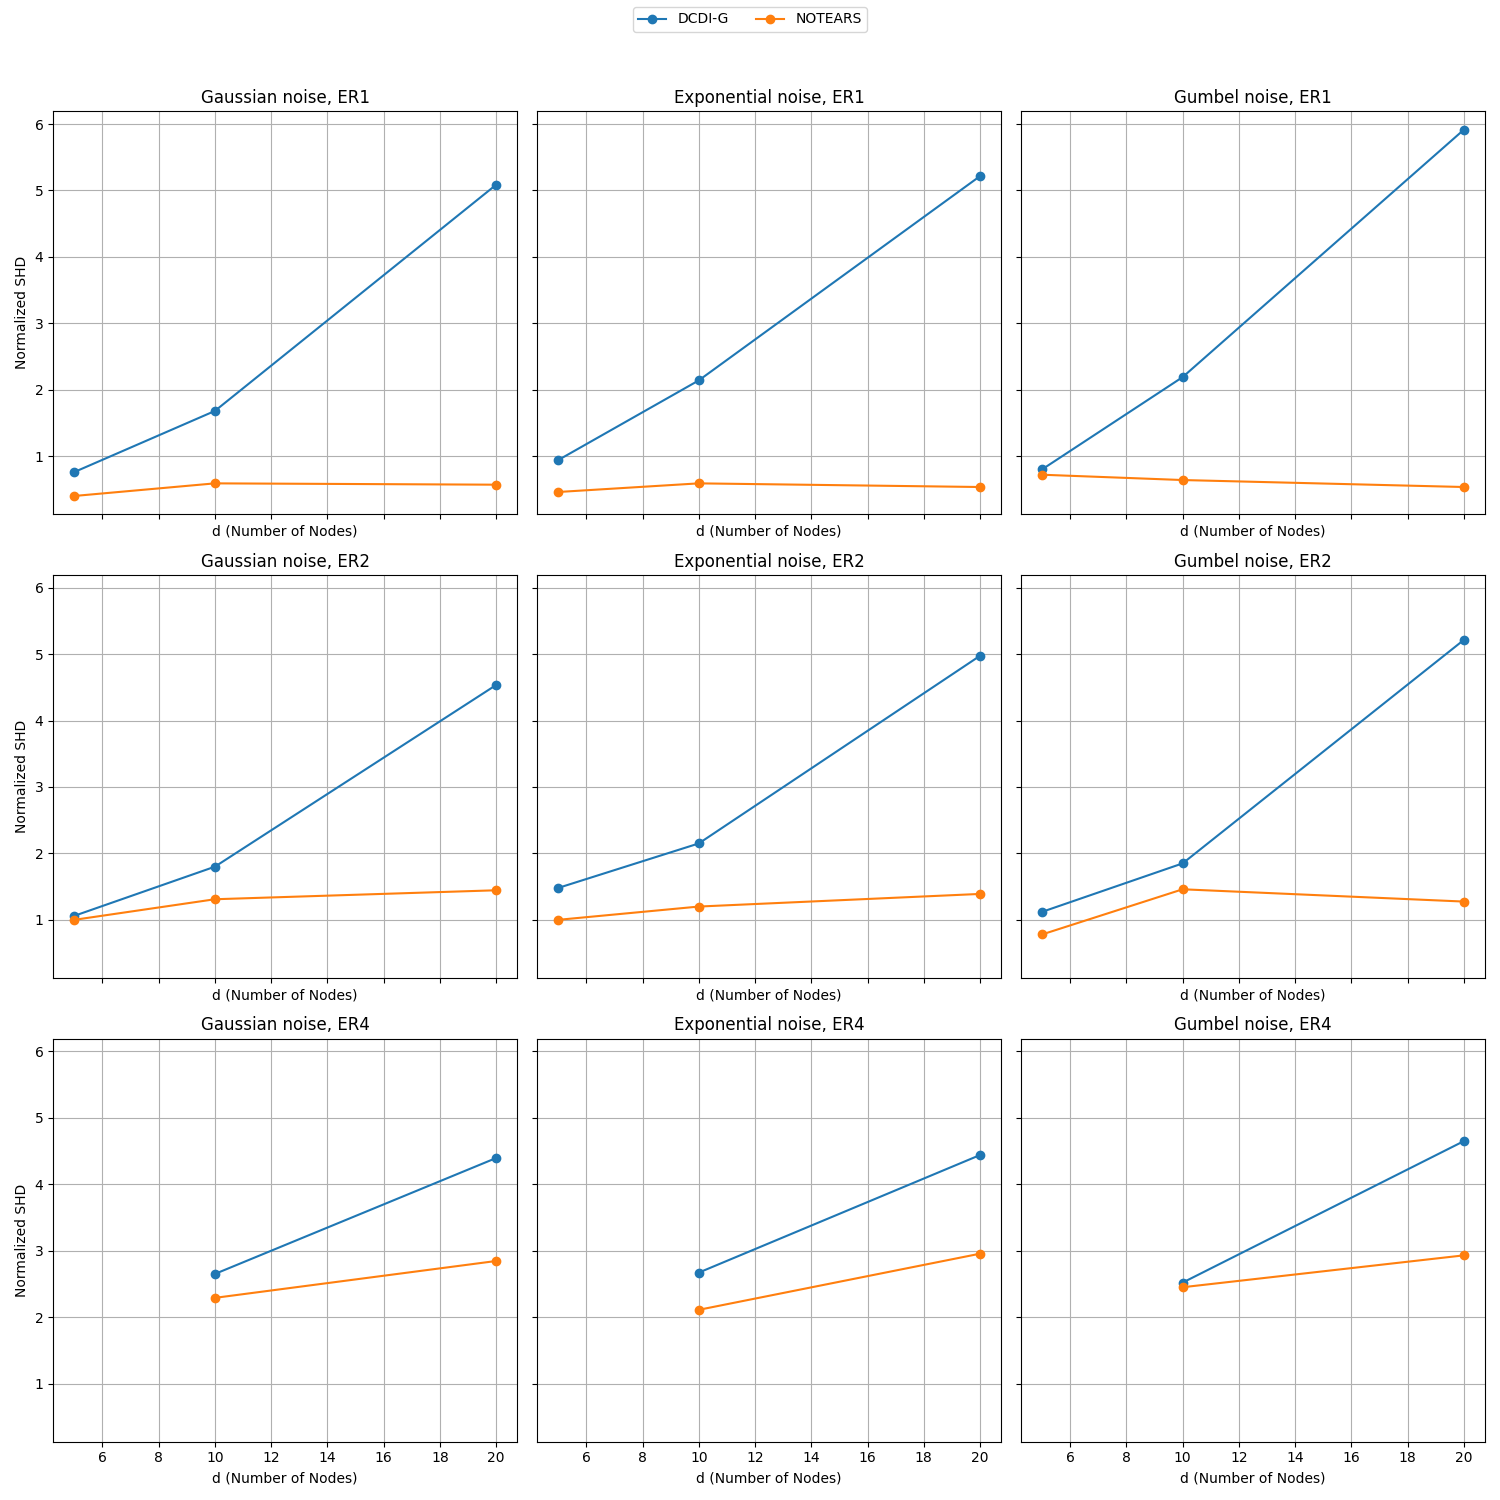
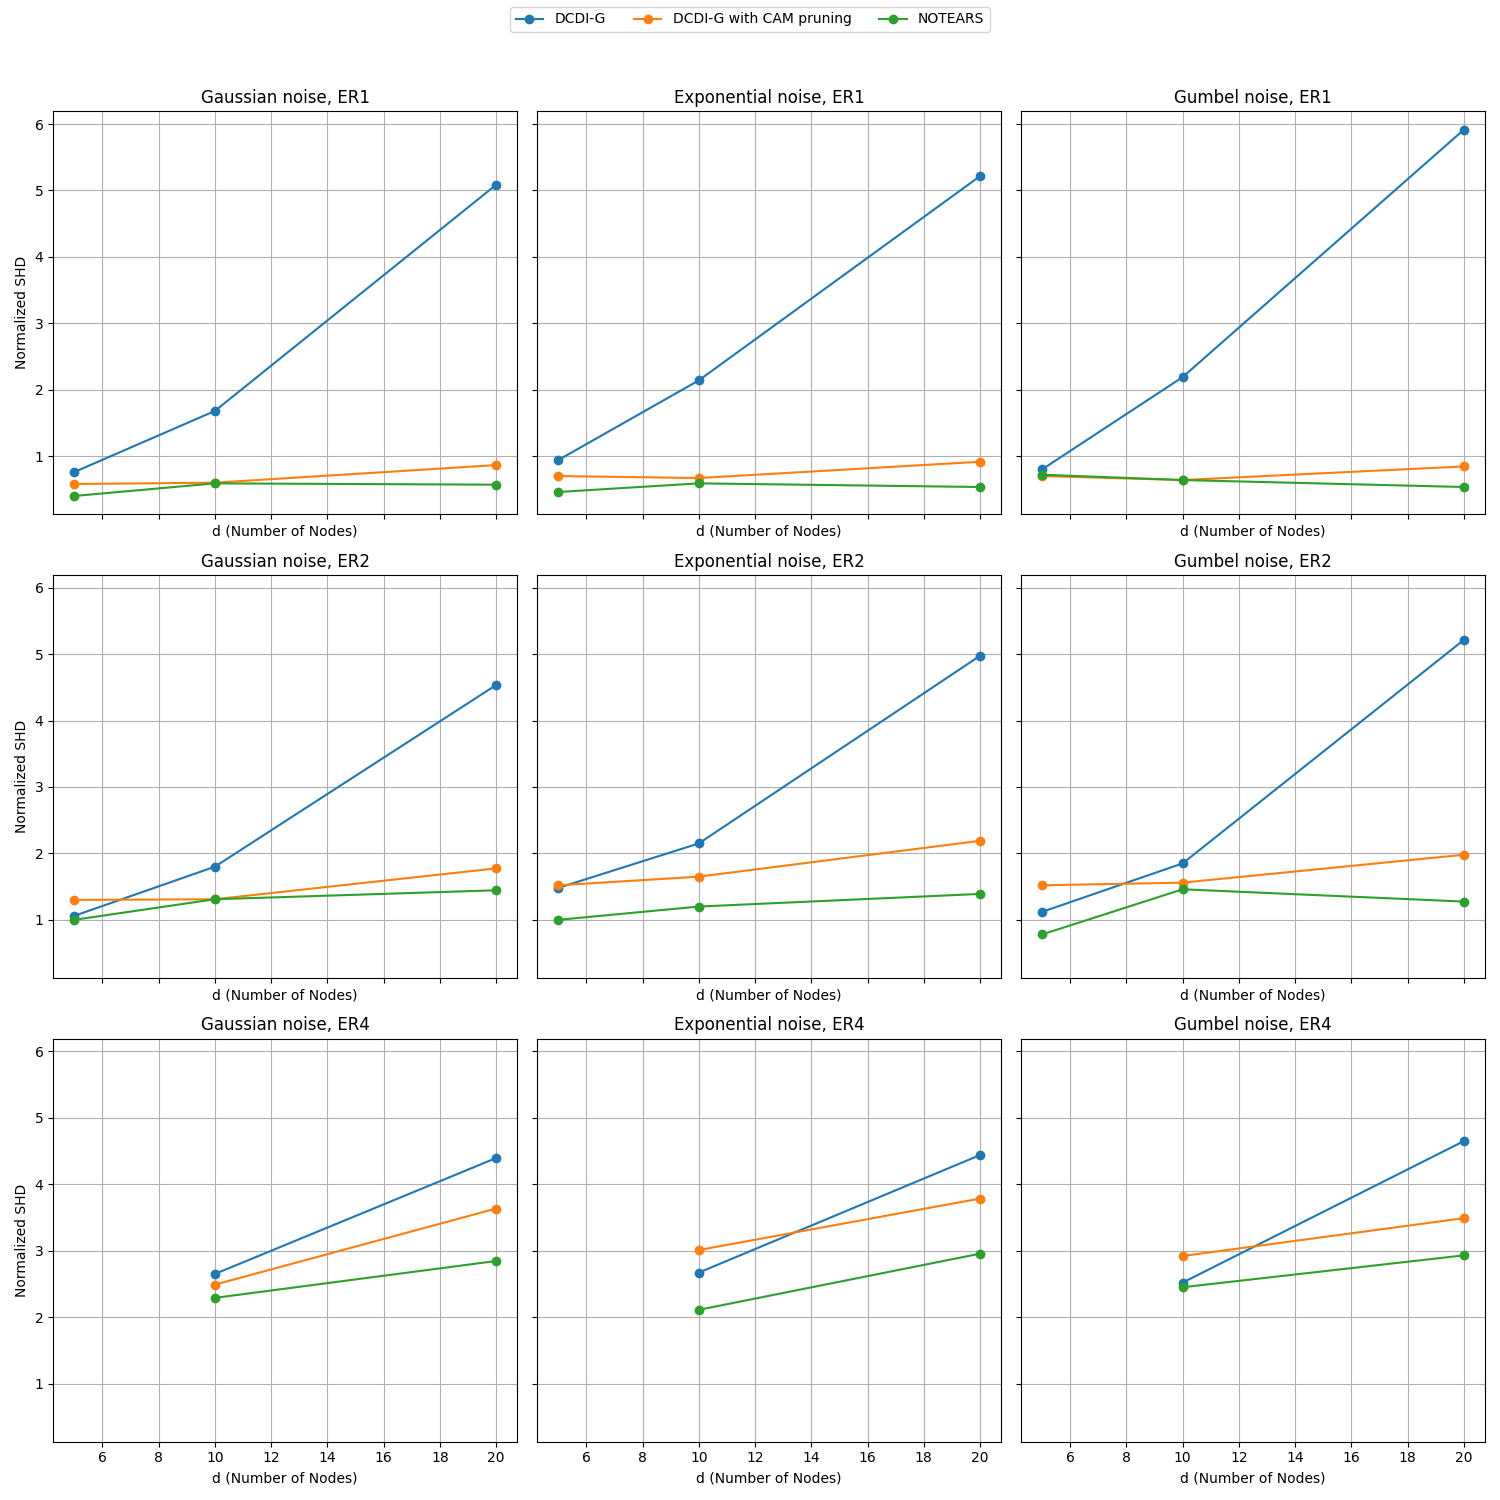
random nonlinear

diff --git a/examples/dcdi/DCDI-G nonlinear/shd_random/reconstruct.py b/examples/dcdi/DCDI-G nonlinear/shd_random/reconstruct.py
@@ -7,7 +7,12 @@ import matplotlib.pyplot as plt
 num_nodes = [5, 10, 20]
 s0_ratios = [1, 2, 4]
 noise_types = ["gauss", "exp", "gumbel"]
-methods = ["DCDI-G", "NOTEARS"]
+methods = ["DCDI-G", "DCDI-G-CAM", "NOTEARS"]
+method_names = {
+    "DCDI-G": "DCDI-G",
+    "DCDI-G-CAM": "DCDI-G with CAM pruning",
+    "NOTEARS": "NOTEARS"
+}
 
 noise_names = {
     "gauss": "Gaussian",
@@ -50,7 +55,7 @@ for i, s0_ratio in enumerate(s0_ratios):
 
         for method in methods:
             means = [np.mean(results[method][noise][str(s0_ratio)][d]) for d in num_nodes]
-            ax.plot(num_nodes, means, marker="o", label=method)
+            ax.plot(num_nodes, means, marker="o", label=method_names[method])
 
         ax.set_title(f"{noise_names[noise]} noise, ER{s0_ratio}")
         ax.set_xlabel("d (Number of Nodes)")

diff --git a/examples/dcdi/DCDI-G nonlinear/sid_random/reconstruct.py b/examples/dcdi/DCDI-G nonlinear/sid_random/reconstruct.py
@@ -7,7 +7,12 @@ import matplotlib.pyplot as plt
 num_nodes = [5, 10, 20]
 s0_ratios = [1, 2, 4]
 noise_types = ["gauss", "exp", "gumbel"]
-methods = ["DCDI-G", "NOTEARS"]
+methods = ["DCDI-G", "DCDI-G-CAM", "NOTEARS"]
+method_names = {
+    "DCDI-G": "DCDI-G",
+    "DCDI-G-CAM": "DCDI-G with CAM pruning",
+    "NOTEARS": "NOTEARS"
+}
 
 noise_names = {
     "gauss": "Gaussian",
@@ -50,7 +55,7 @@ for i, s0_ratio in enumerate(s0_ratios):
 
         for method in methods:
             means = [np.mean(results[method][noise][str(s0_ratio)][d]) for d in num_nodes]
-            ax.plot(num_nodes, means, marker="o", label=method)
+            ax.plot(num_nodes, means, marker="o", label=method_names[method])
 
         ax.set_title(f"{noise_names[noise]} noise, ER{s0_ratio}")
         ax.set_xlabel("d (Number of Nodes)")
